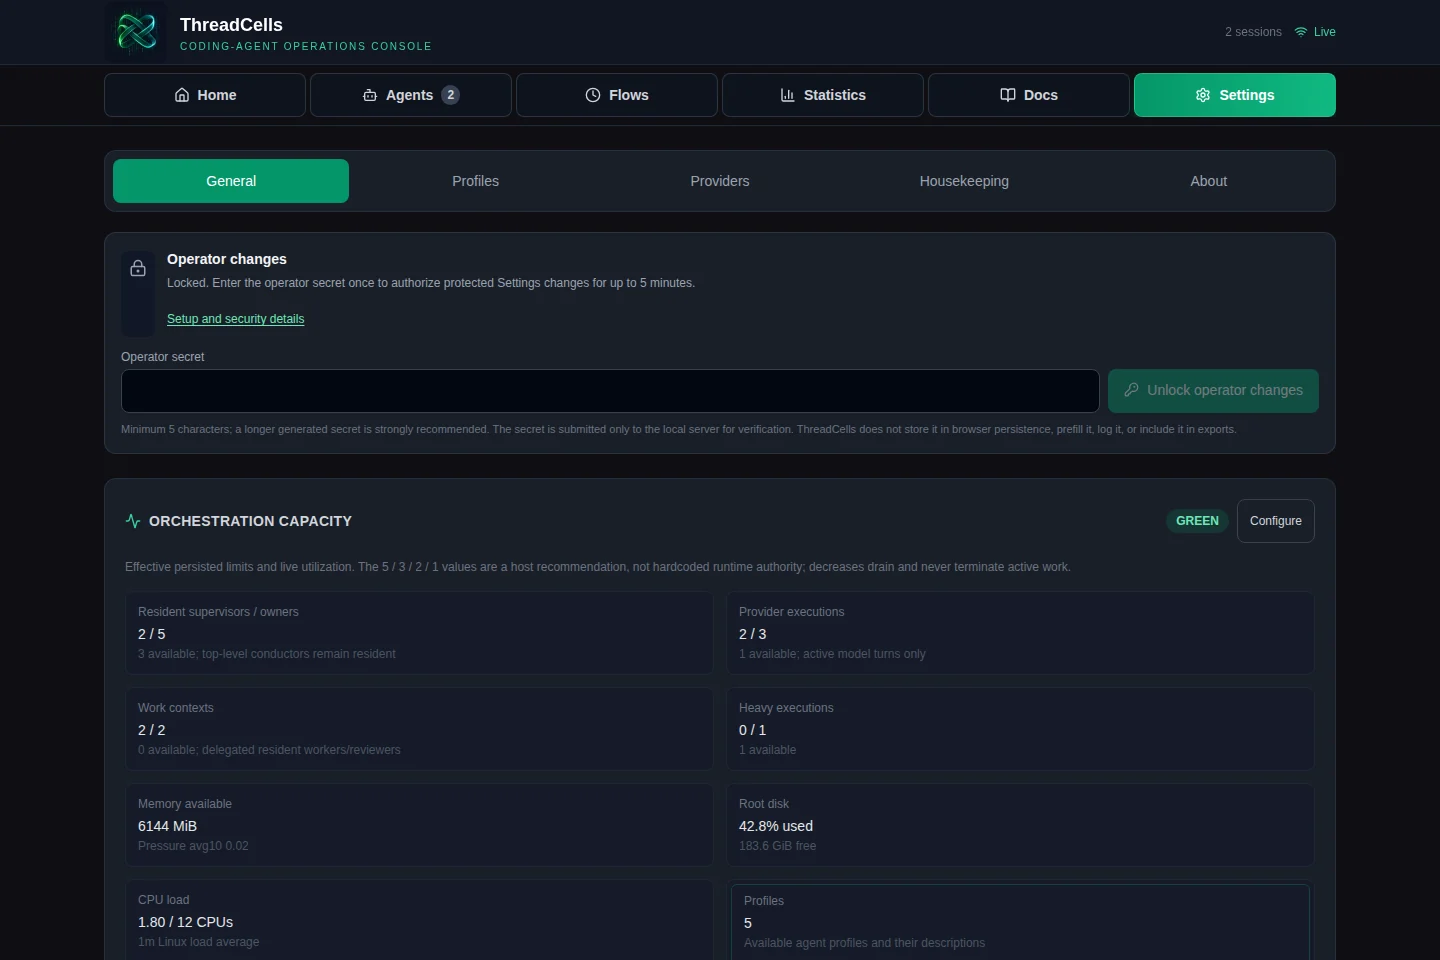
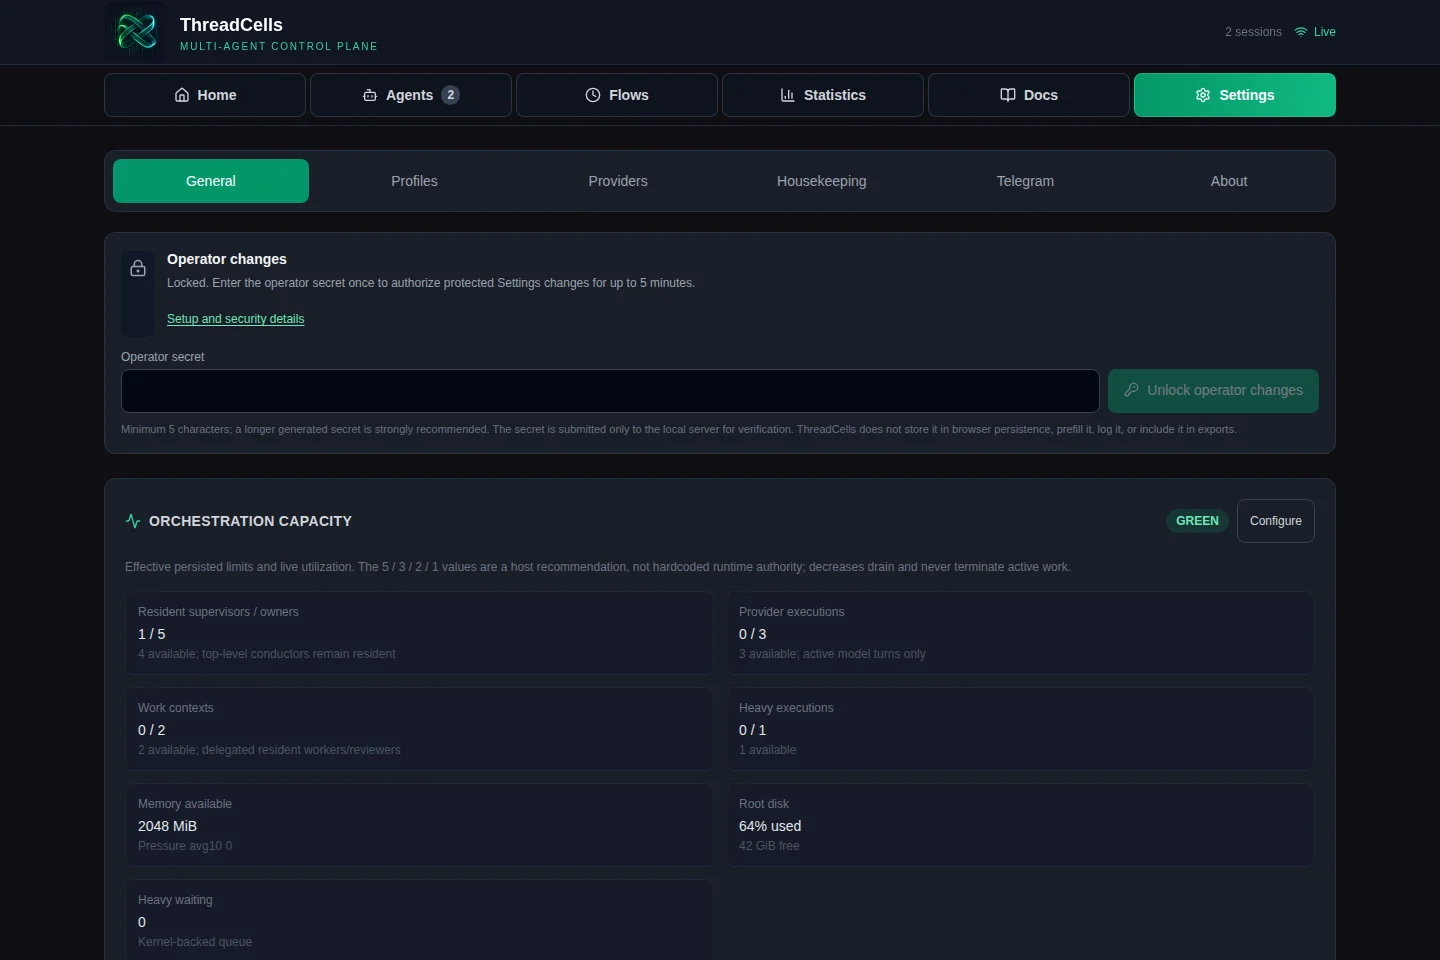
Clarify ThreadCells operations and public product story

diff --git a/website/app/page.tsx b/website/app/page.tsx
@@ -9,14 +9,14 @@ const capabilities = [
   { icon: <Eye />, id: '01', title: 'Operational truth', copy: 'See what is resident, executing, waiting, draining, blocked, or actually complete—without inferring state from a terminal tab.' },
   { icon: <GitBranch />, id: '02', title: 'Worktree authority', copy: 'Anchor work to trusted projects and managed Git worktrees. Writer leases keep concurrent mutation explicit.' },
   { icon: <Layers />, id: '03', title: 'Durable results', copy: 'Delegated work returns a persisted result that can be delivered, acknowledged, accepted, and retired without losing history.' },
-  { icon: <Gauge />, id: '04', title: 'Resource-aware execution', copy: 'Resident, provider, work-context, and heavy-task limits remain separate—so capacity reflects what the host is really doing.' },
+  { icon: <Gauge />, id: '04', title: 'A healthy agent environment', copy: 'ThreadCells watches host pressure and safely cleans eligible runtime, log, cache, build, and release debris while protecting active work and durable history.' },
 ]
 
 const steps = [
-  ['01', 'Owner sets intent', 'Start a bounded workflow from a trusted local project and an explicit agent profile.'],
-  ['02', 'Supervisor routes work', 'The supervisor delegates coherent work to native CLI workers and reviewers.'],
-  ['03', 'ThreadCells holds the shape', 'Sessions, provider execution, work contexts, worktrees, and host-heavy work stay inspectable.'],
-  ['04', 'Results return durably', 'Completion evidence comes back through the workflow; owner gates stop only for decisions that need you.'],
+  ['01', 'Create a session', 'Choose a trusted local project and an agent or supervisor profile.'],
+  ['02', 'Give it the job', 'A supervisor can delegate coherent work to native CLI workers and reviewers.'],
+  ['03', 'Watch the system', 'ThreadCells keeps the workflow moving across model turns while sessions, worktrees, capacity, and host pressure stay visible.'],
+  ['04', 'Step in when asked', 'Results return durably. Owner gates pause only for decisions that genuinely need you.'],
 ]
 
 const jsonLd = {
@@ -35,6 +35,7 @@ const jsonLd = {
     'Durable delegated results',
     'Explicit workflow lifecycle and owner gates',
     'Independent execution capacity controls',
+    'Protected-set-aware Housekeeping and closed-runtime retirement',
     'Optional installation-global Telegram lifecycle notifications',
   ],
 }
@@ -49,19 +50,19 @@ export default function Home() {
           <div className="hero-ambient" aria-hidden="true" />
           <div className="hero-copy">
             <p className="eyebrow"><span>SELF-HOSTED</span> CODING-AGENT OPERATIONS</p>
-            <h1 id="hero-title">Run multiple coding agents.<br /><em>Keep control</em> of the machine and the result.</h1>
-            <p className="hero-lede">ThreadCells is the control plane around native CLI coding agents: persistent sessions, bounded work contexts, managed worktrees, resource-aware execution, and durable completion evidence—on your own Linux host.</p>
+            <h1 id="hero-title">Run coding agents as a system.<br /> <em>Not a pile</em> of terminals.</h1>
+            <p className="hero-lede">ThreadCells coordinates native CLI agents, keeps open workflows moving across model turns, and maintains the orchestration environment underneath them—on your own Linux host.</p>
             <div className="hero-actions">
               <a className="button button-primary" href={site.githubUrl} target="_blank" rel="noopener noreferrer"><Github /> View on GitHub <ArrowUpRight /></a>
               <a className="button button-secondary" href={site.docsUrl}><Book /> Read the docs <ArrowRight /></a>
-              <span className="hero-note"><i /> No cloud control plane required</span>
+              <span className="hero-note"><i /> Start the work. Watch the system. Step in only when it needs you.</span>
             </div>
           </div>
           <div className="hero-visual"><div className="hero-index" aria-hidden="true"><span>01</span><i /><small>CONTROL / RESULT</small></div><ExecutionMesh /></div>
         </section>
 
         <section className="signal-strip" aria-label="ThreadCells operating principles">
-          {['LOOPBACK FIRST', 'NATIVE CLI AGENTS', 'EXPLICIT CAPACITY', 'DURABLE RESULTS'].map((signal, index) => (
+          {['COORDINATED WORKFLOWS', 'PROTECTED HOUSEKEEPING', 'DURABLE HISTORY', 'LOOPBACK FIRST'].map((signal, index) => (
             <span key={signal}><small>0{index + 1}</small>{signal}<i /></span>
           ))}
         </section>

diff --git a/website/lib/site.ts b/website/lib/site.ts
@@ -25,7 +25,7 @@ export const site = {
   name: 'ThreadCells',
   title: 'ThreadCells — Control plane for native CLI coding agents',
   description:
-    'Run multiple native CLI coding agents while keeping sessions, worktrees, capacity, durable results, and owner decisions visible on your own machine.',
+    'Run coding agents as a coordinated system. ThreadCells keeps workflows moving, protects durable history, and maintains its own orchestration environment on your Linux host.',
   siteUrl: optionalUrl('SITE_URL') || publicPagesUrl,
   githubUrl: publicRepositoryUrl,
   docsUrl: assetPath('/docs'),

diff --git a/scripts/build_docs_bundle.py b/scripts/build_docs_bundle.py
@@ -20,6 +20,7 @@ ROOT = Path(__file__).resolve().parents[1]
 MANIFEST = ROOT / "docs" / "DOCS_MANIFEST.json"
 PRIVATE_SEGMENTS = {"agents", "memory", "handoffs", ".git"}
 PRIVATE_MARKERS = ("private deployment path", "internal-only deployment")
+PUBLIC_REPOSITORY_BLOB = "https://github.com/IUnknown404I/threadcells/blob/main"
 
 
 def git_identity() -> str:
@@ -61,7 +62,12 @@ def rewrite_internal_links(markdown: str, source: Path, slugs: dict[Path, str]) 
         resolved = (source.parent / location).resolve()
         slug = slugs.get(resolved)
         if not slug:
-            return match.group(0)
+            try:
+                repository_path = resolved.relative_to(ROOT).as_posix()
+            except ValueError:
+                return match.group(0)
+            suffix = f"#{fragment}" if separator else ""
+            return f"]({PUBLIC_REPOSITORY_BLOB}/{repository_path}{suffix})"
         suffix = f"#{fragment}" if separator else ""
         return f"](/docs/{slug}{suffix})"
 

diff --git a/README.md b/README.md
@@ -2,9 +2,9 @@
 
 ![ThreadCells](docs/assets/threadcells-logo-horizontal.png)
 
-**Run multiple coding agents. Keep control of the machine and the result.**
+**Run coding agents as a system, not a pile of terminals.**
 
-ThreadCells is a self-hosted coding-agent operations console for a small fleet of native CLI coding agents. It keeps real tmux terminals, managed Git worktrees, writer and resource limits, durable completion evidence, and supervisor/reviewer workflows on one Linux host.
+ThreadCells coordinates native CLI coding agents, keeps open workflows moving across model turns, and takes care of the orchestration environment underneath them. It watches host pressure, safely reclaims disposable ThreadCells runtime debris, and preserves active work and durable history on your own Linux host.
 
 Public repository: [`IUnknown404I/threadcells`](https://github.com/IUnknown404I/threadcells)
 
@@ -12,18 +12,22 @@ Public repository: [`IUnknown404I/threadcells`](https://github.com/IUnknown404I/
 
 *A 12-second isolated synthetic run through the real ThreadCells UI. No production state is shown.*
 
-## In 20 seconds
+## In 30 seconds
 
-Pick a project, start a supervisor, and let it delegate bounded work into managed worktrees. ThreadCells records the result and keeps capacity and owner decisions visible. It is for advanced solo developers and trusted small teams, not hostile multi-tenancy or an autonomous software factory.
+Create a session → choose an agent or supervisor → give it the job → watch the workflow → step in only when ThreadCells asks for an owner decision.
+
+A supervisor can delegate to workers and reviewers, collect results through the Inbox, and continue the same logical mission across normal asynchronous and model-turn boundaries. You do not have to copy messages between terminals or treat a provider's final response as mission completion.
 
 ## Why ThreadCells
 
-- Native CLI agents remain in inspectable tmux terminals.
-- Managed worktrees and writer authority reduce accidental collisions.
-- Provider, Work, and Heavy capacity are admitted independently.
-- Durable results and owner gates preserve operational truth.
+- Agents coordinate under durable supervisor workflows instead of relying on manual copy-and-paste.
+- Native CLI agents remain in inspectable tmux terminals, with managed worktrees and explicit writer authority.
+- Host pressure and independent capacity limits stay visible while protected-set-aware Housekeeping cleans eligible logs, caches, releases, and closed runtime debris.
+- Active work, live state, recovery releases, backups, and durable session, workflow, Inbox, and result history are protected from routine cleanup.
+- Durable results and explicit owner gates preserve operational truth across restarts and terminal retirement.
 - Optional installation-global Telegram alerts surface top-level completion, failure, and owner attention without project-specific wiring.
-- Cleanup remains conservative: unknown state is not treated as dead.
+
+ThreadCells actively keeps its own agent environment healthy; it cannot guarantee that the physical host, provider, or network will never fail. Unknown or ambiguous state is protected rather than guessed safe to delete.
 
 Start with [What is ThreadCells?](docs/OVERVIEW.md), [Quick Setup](QUICK_SETUP.md), and [Your first project and agent](docs/FIRST_AGENT.md). The complete public guide covers [Installation](docs/INSTALLATION.md), [Core concepts](docs/CONCEPTS.md), [Telegram notifications](docs/TELEGRAM_NOTIFICATIONS.md), [Remote access](docs/REMOTE_ACCESS.md), [Security](SECURITY.md), and [Operations](docs/OPERATIONS.md). The in-product reader at `/docs` serves the same packaged allowlisted documentation corpus.
 

diff --git a/docs/OVERVIEW.md b/docs/OVERVIEW.md
@@ -1,6 +1,6 @@
 # Start here: What is ThreadCells?
 
-ThreadCells is a self-hosted operations console for running several coding agents on one Linux machine. It gives those agents real terminals and Git worktrees, while keeping the operator in control of capacity, write access, protected changes, and the final result.
+ThreadCells is a self-hosted system for running several coding agents as one coordinated workflow on a Linux machine. It gives agents real terminals and Git worktrees, keeps open missions moving across model turns, and keeps the operator in control of capacity, write access, protected changes, and the final result.
 
 If you can use Git, SSH, and a command-line coding agent, you have enough background to start. You do not need to understand ThreadCells's internal architecture before launching useful work.
 
@@ -8,13 +8,16 @@ If you can use Git, SSH, and a command-line coding agent, you have enough backgr
 
 A single coding-agent terminal is easy to understand. Multiple terminals become harder: two agents can edit the same branch, a build can exhaust memory, a supervisor can disappear before collecting a review, and a completed terminal does not necessarily mean the requested mission is complete.
 
-ThreadCells makes those relationships explicit. It is particularly useful when you want to:
+ThreadCells makes those relationships explicit and maintains its own operating environment. It is particularly useful when you want to:
 
 - keep long-running agents visible and reconnectable;
 - give parallel workers separate managed worktrees;
 - let a supervisor delegate implementation and review;
+- let results and Inbox messages return without manually copying between terminals;
+- continue one logical mission across provider turns and normal restarts;
 - limit model turns, active work, and heavy host tasks independently;
 - preserve results even after a terminal exits;
+- monitor host pressure and safely clean disposable ThreadCells runtime, log, cache, build, and release debris;
 - require an owner decision before a sensitive or ambiguous step.
 
 ThreadCells is designed for one trusted operator or a small trusted team on a host they control. It is not a hostile multi-tenant sandbox.
@@ -22,18 +25,18 @@ ThreadCells is designed for one trusted operator or a small trusted team on a ho
 ## The basic loop
 
 ```text
-Choose a project and profile
+Create a session and choose a project and agent
         ↓
-Launch an agent in a tmux terminal
+Give the agent or supervisor the job
         ↓
-Watch work, capacity, and results in the Web UI
+Watch the coordinated workflow and host state
         ↓
-Agent finishes a bounded task or requests an owner decision
+ThreadCells continues eligible work across model turns
         ↓
-Review the durable result and continue or close the workflow
+Step in only for an explicit owner decision or final review
 ```
 
-The agent still runs through its native provider CLI. ThreadCells coordinates the surrounding work; it does not replace the provider.
+The agent still runs through its native provider CLI. ThreadCells coordinates the surrounding work; it does not replace the provider. Housekeeping protects active work, durable state, backups, and current/recovery releases while reclaiming only candidates whose ownership and eligibility can be proven. That reduces manual babysitting of ThreadCells debris, but it is not a promise that the physical host can never fail.
 
 ## A useful first hour
 

diff --git a/docs/HOUSEKEEPING.md b/docs/HOUSEKEEPING.md
@@ -14,8 +14,10 @@ Depending on age and ownership evidence, a plan can include:
 - ThreadCells-labelled containers and volumes whose owner is dead and unreferenced;
 - trusted package caches with a measurable reclaim action;
 - inactive candidates/releases represented by canonical staging metadata.
+- exact closed-terminal runtime panes and process descendants whose durable terminal is already closed and whose process identity still matches;
+- cleanup-pending managed child worktrees after their durable result/retirement boundary is acknowledged and revalidated.
 
-Housekeeping does not blindly delete source repositories, active or unknown worktrees, running terminals, open files, current/rollback releases, staged candidates, or backups.
+Housekeeping does not blindly delete source repositories, active or unknown worktrees, running terminals, open files, current/rollback releases, staged candidates, or backups. Retiring a closed terminal runtime does not delete its durable session, agent, Inbox, result, or workflow history.
 
 ## Plan first, execute second
 
@@ -55,7 +57,7 @@ Do not script `plan_id` extraction and immediate execution until you understand 
 
 ## Protected-set philosophy
 
-The protected set combines active terminals and worktrees, writer/workflow ownership, current source/runtime lineage, active and rollback releases, staged candidates, referenced browser revisions, open files, live process start identity, container reference metadata, backups, and shared locks.
+The protected set combines active terminals and worktrees, writer/workflow ownership, current source/runtime lineage, active and rollback releases, staged candidates, referenced browser revisions, open files, live process start identity and terminal identity, container reference metadata, backups, and shared locks.
 
 The details matter to the implementation, but the operator rule is simple: **absence of evidence is not evidence that a resource is dead**. If protection cannot be established accurately, Housekeeping skips it and reports why.
 

diff --git a/docs/WORKFLOWS_AND_RESULTS.md b/docs/WORKFLOWS_AND_RESULTS.md
@@ -23,6 +23,8 @@ Each workflow has its own current logical input and completion state. A worker c
 
 Both forms preserve parent/child identity and a durable result. Neither gives a child broader owner authority than the parent explicitly delegated.
 
+A transient pre-launch admission denial, such as exhausted work-context capacity, is recorded as not admitted rather than as an executed assignment. The same logical effect can be retried once capacity is available; after a child launch is admitted or its outcome becomes uncertain, normal duplicate protection remains in force.
+
 ## Result lifecycle
 
 ```text
@@ -56,7 +58,7 @@ ThreadCells therefore keeps a top-level workflow open until one of these explici
 - the owner cancels it;
 - a real unrecoverable failure exhausts its bounded recovery path.
 
-Repeated ordinary provider finals use bounded continuation backoff. After the bounded automatic retries are exhausted, the workflow stays open but idle; a direct owner input or a real child result resumes it. Provider completion never becomes an owner gate or mission-complete signal by itself.
+Repeated ordinary provider finals use durable one-turn-at-a-time continuation with capped backoff. ThreadCells keeps admitting the next logical turn while the workflow is open. If a provider settles directly on Ready instead of exposing a repeatable completed frame, ThreadCells durably debounces that state across restart and advances the same open workflow; a later Processing observation cancels a transient Ready candidate. Direct owner input and durable child results reset the no-progress counter. As a paid-loop safeguard, 65 consecutive finals with no durable progress place the workflow in an explicit, owner-visible gate. Provider completion never becomes mission completion, and normal autonomous continuation does not require an owner wake.
 
 ## Owner gates
 

diff --git a/docs/OPERATIONS.md b/docs/OPERATIONS.md
@@ -4,7 +4,7 @@ Routine ThreadCells operation is mostly about preserving four kinds of truth: th
 
 ## Daily checks
 
-Use Home and Agents to answer:
+Use Home, Agents, Settings → General, and Settings → Housekeeping to answer:
 
 - Is the server healthy and is the expected build running?
 - Are disk and capacity GREEN, YELLOW, or RED?
@@ -27,7 +27,7 @@ curl -fsS http://127.0.0.1:9889/health
 
 ## Starting and stopping
 
-Run `threadcells-server` on loopback or use the canonical installed service. A browser disconnect does not stop tmux-backed agents.
+Run `threadcells-server` on loopback or use the canonical installed service. A browser disconnect does not stop tmux-backed agents. A supported server restart preserves legitimately active terminal runtimes and then rehydrates durable open-workflow and Inbox delivery state. Closed runtimes are retired by exact terminal/process identity; historical session and result records do not depend on a tmux pane remaining alive.
 
 Before a planned restart:
 
@@ -60,7 +60,7 @@ Avoid logging prompts or values that contain credentials. ThreadCells public/API
 
 ## Housekeeping
 
-Housekeeping is always plan-first. Inspect the dry-run candidate list and plan identity, then explicitly execute the exact plan. The executor rebuilds current protection and revalidates every candidate before mutation.
+Housekeeping is always plan-first. Inspect the dry-run candidate list and plan identity, then explicitly execute the exact plan. The executor rebuilds current protection and revalidates every candidate before mutation. It may retire proven closed terminal runtimes and acknowledged cleanup-pending worktrees without erasing durable history.
 
 Backups are inventory-only and never automatically deleted. Unknown or active resources remain protected. See [Housekeeping](HOUSEKEEPING.md).
 

diff --git a/docs/WEB_UI.md b/docs/WEB_UI.md
@@ -6,7 +6,7 @@ The Web UI is the operator's live view of ThreadCells. It is designed for a loop
 
 - **Home** summarizes current health, capacity, and recent activity.
 - **Agents** shows sessions, statuses, terminals, profile/provider identity, and durable results.
-- **Flows** shows supervisor/worker relationships and workflow progress.
+- **Flows** creates, enables, disables, inspects, and manually runs recurring agent schedules. The resulting agents and workflow lifecycle appear under Agents.
 - **Statistics** displays provider-reported usage without invented metrics.
 - **Settings** contains General, Orchestration Capacity, Profiles, Providers, Housekeeping, installation-global Telegram notifications, and About.
 - **Docs** serves the public allowlisted documentation packaged with the running build.
@@ -16,10 +16,10 @@ Direct URLs are supported. Browser history should preserve the selected Settings
 
 ## A normal operating loop
 
-1. Check Home for health, disk pressure, and available capacity.
+1. Check Home for current session/workflow activity and Settings for host health, disk pressure, and available capacity.
 2. Use Spawn Agent and confirm the selected provider is ready.
 3. Watch the new session under Agents.
-4. Use Flows when a supervisor delegates work.
+4. Use Flows for recurring schedules. Follow the agents they launch under Agents.
 5. Read and incorporate durable results before retiring children.
 6. Use Statistics to understand provider-reported usage.
 

diff --git a/QUICK_SETUP.md b/QUICK_SETUP.md
@@ -57,6 +57,8 @@ Expected result: Home loads, Settings → About shows the running build identity
 
 Keep the host and port exactly loopback-only for this first run. For another computer, do not change the listener to `0.0.0.0`; use [Remote access](docs/REMOTE_ACCESS.md).
 
+The operating model is intentionally short: create a session, choose an agent or supervisor, give it the job, watch the workflow, and step in only for an explicit owner decision or final review. Provider completion alone does not close an open workflow.
+
 ## 6. Start useful work
 
 Follow [Your first project and agent](docs/FIRST_AGENT.md). The included [safe starter example](examples/threadcells-starter/README.md) is also a bounded supervisor/developer/reviewer exercise that does not publish or change services.
@@ -70,6 +72,7 @@ Stop the foreground server with `Ctrl-C`. Agent terminals are tmux-backed and ma
 - [Core concepts](docs/CONCEPTS.md)
 - [Providers](docs/PROVIDERS.md) and [Profiles](docs/PROFILES.md)
 - [Capacity and resource model](docs/RESOURCE_MODEL.md)
+- [Housekeeping](docs/HOUSEKEEPING.md)
 - [Telegram notifications](docs/TELEGRAM_NOTIFICATIONS.md)
 - [Backup and restore](docs/BACKUP_AND_RESTORE.md)
 - [Security model](docs/SECURITY_MODEL.md)

diff --git a/docs/SECURITY_MODEL.md b/docs/SECURITY_MODEL.md
@@ -36,6 +36,8 @@ Provider adapters are executable trusted packages and require operator review. P
 
 Provider authentication stays in the provider's own supported mechanism. Registry exports omit secret values and one-use grants.
 
+Per-terminal control credentials are scoped to the terminal/provider process. ThreadCells starts the long-lived tmux server through a credential-free bootstrap, so its persistent process command line does not retain a terminal credential. Those credentials remain sensitive to processes running as the same trusted runtime account.
+
 ### Telegram notifications
 
 Telegram delivery is optional, disabled by default, installation-global, and independent of project configuration. Its bot token is a write-only Web setting stored outside SQLite in the private ThreadCells state root as a runtime-owned `0600` regular file. Read APIs expose only safe configuration state. Operator authorization protects updates and explicit connection/test actions.
